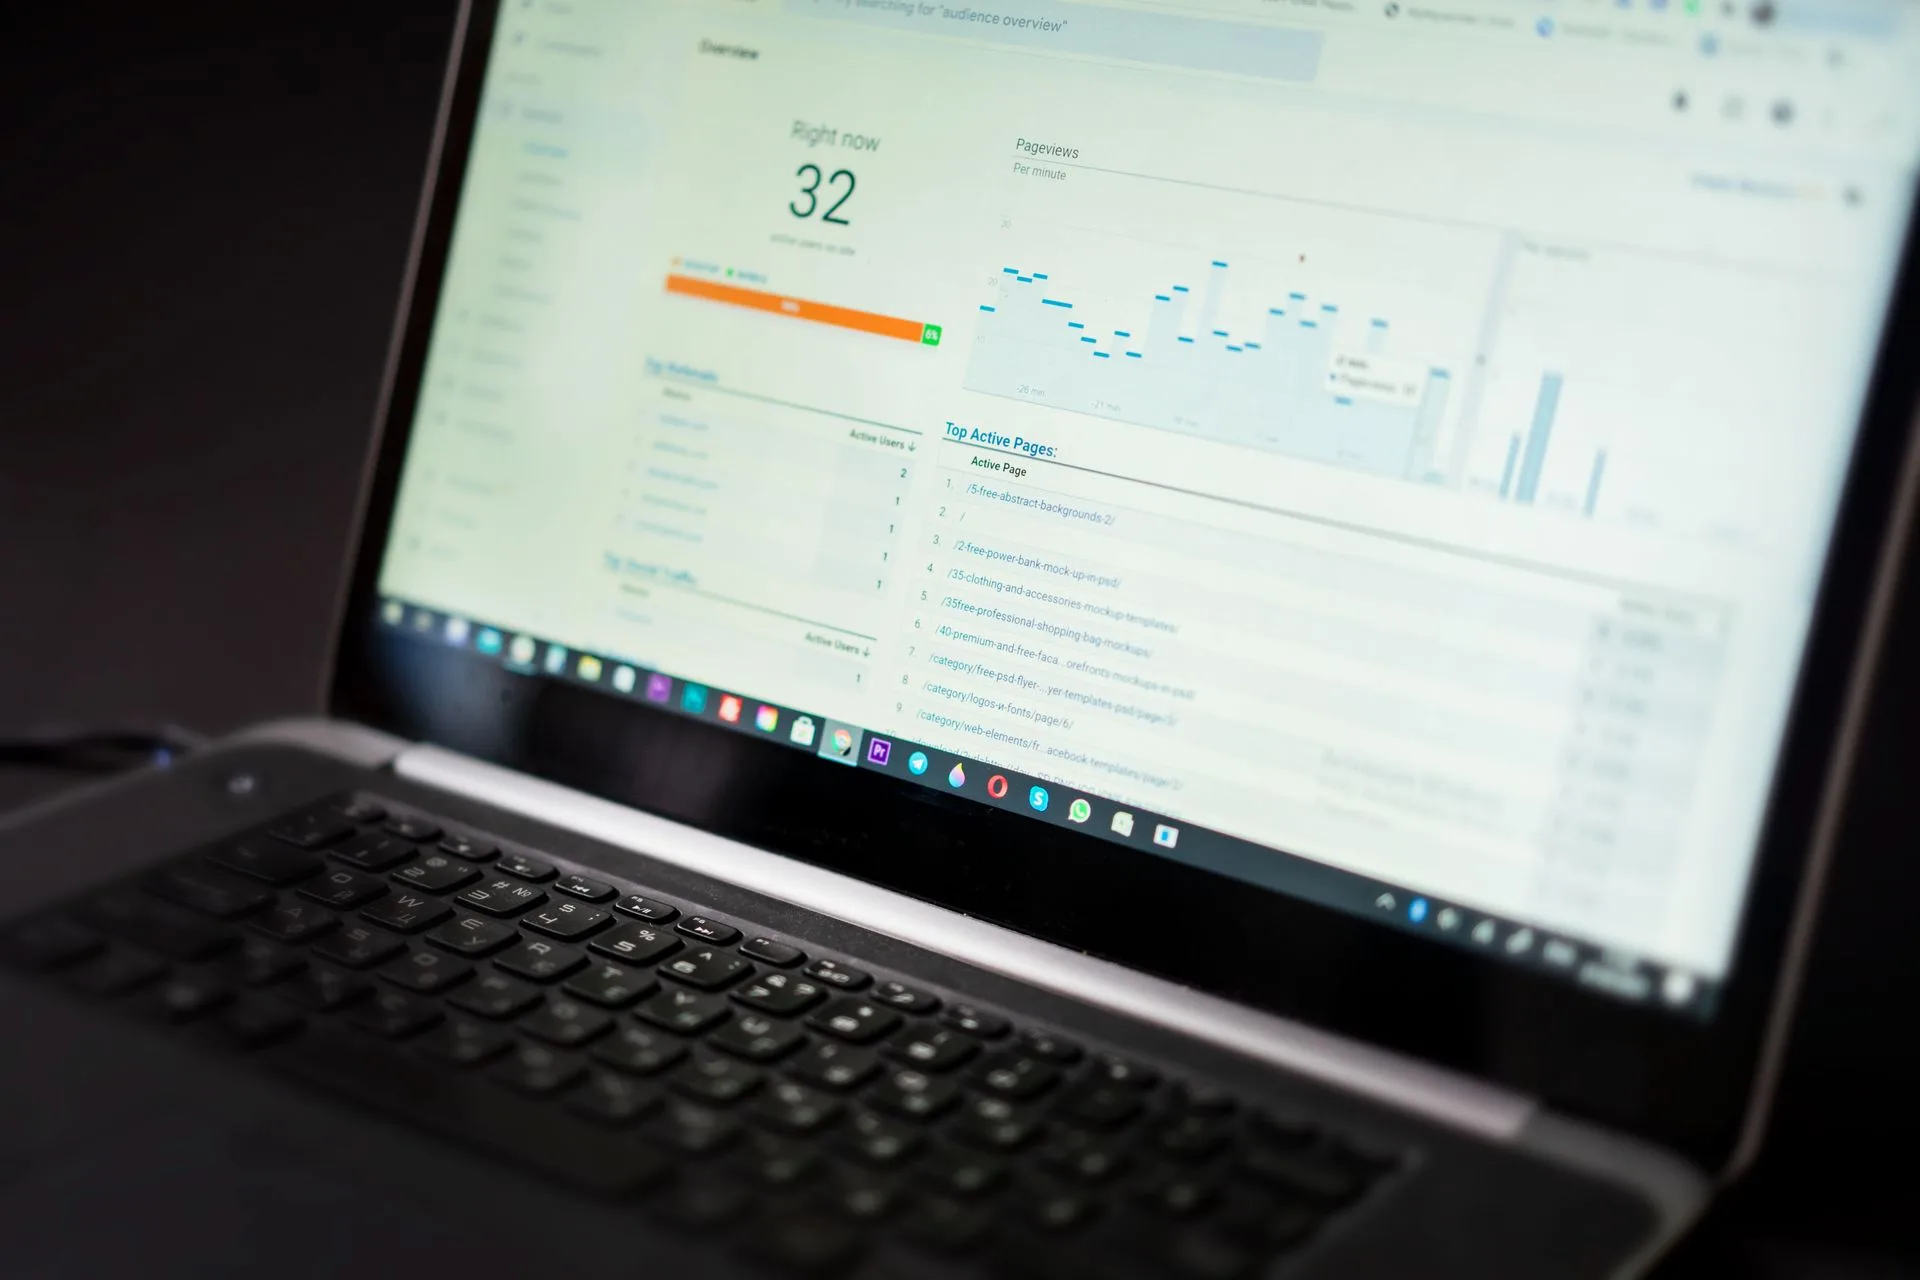
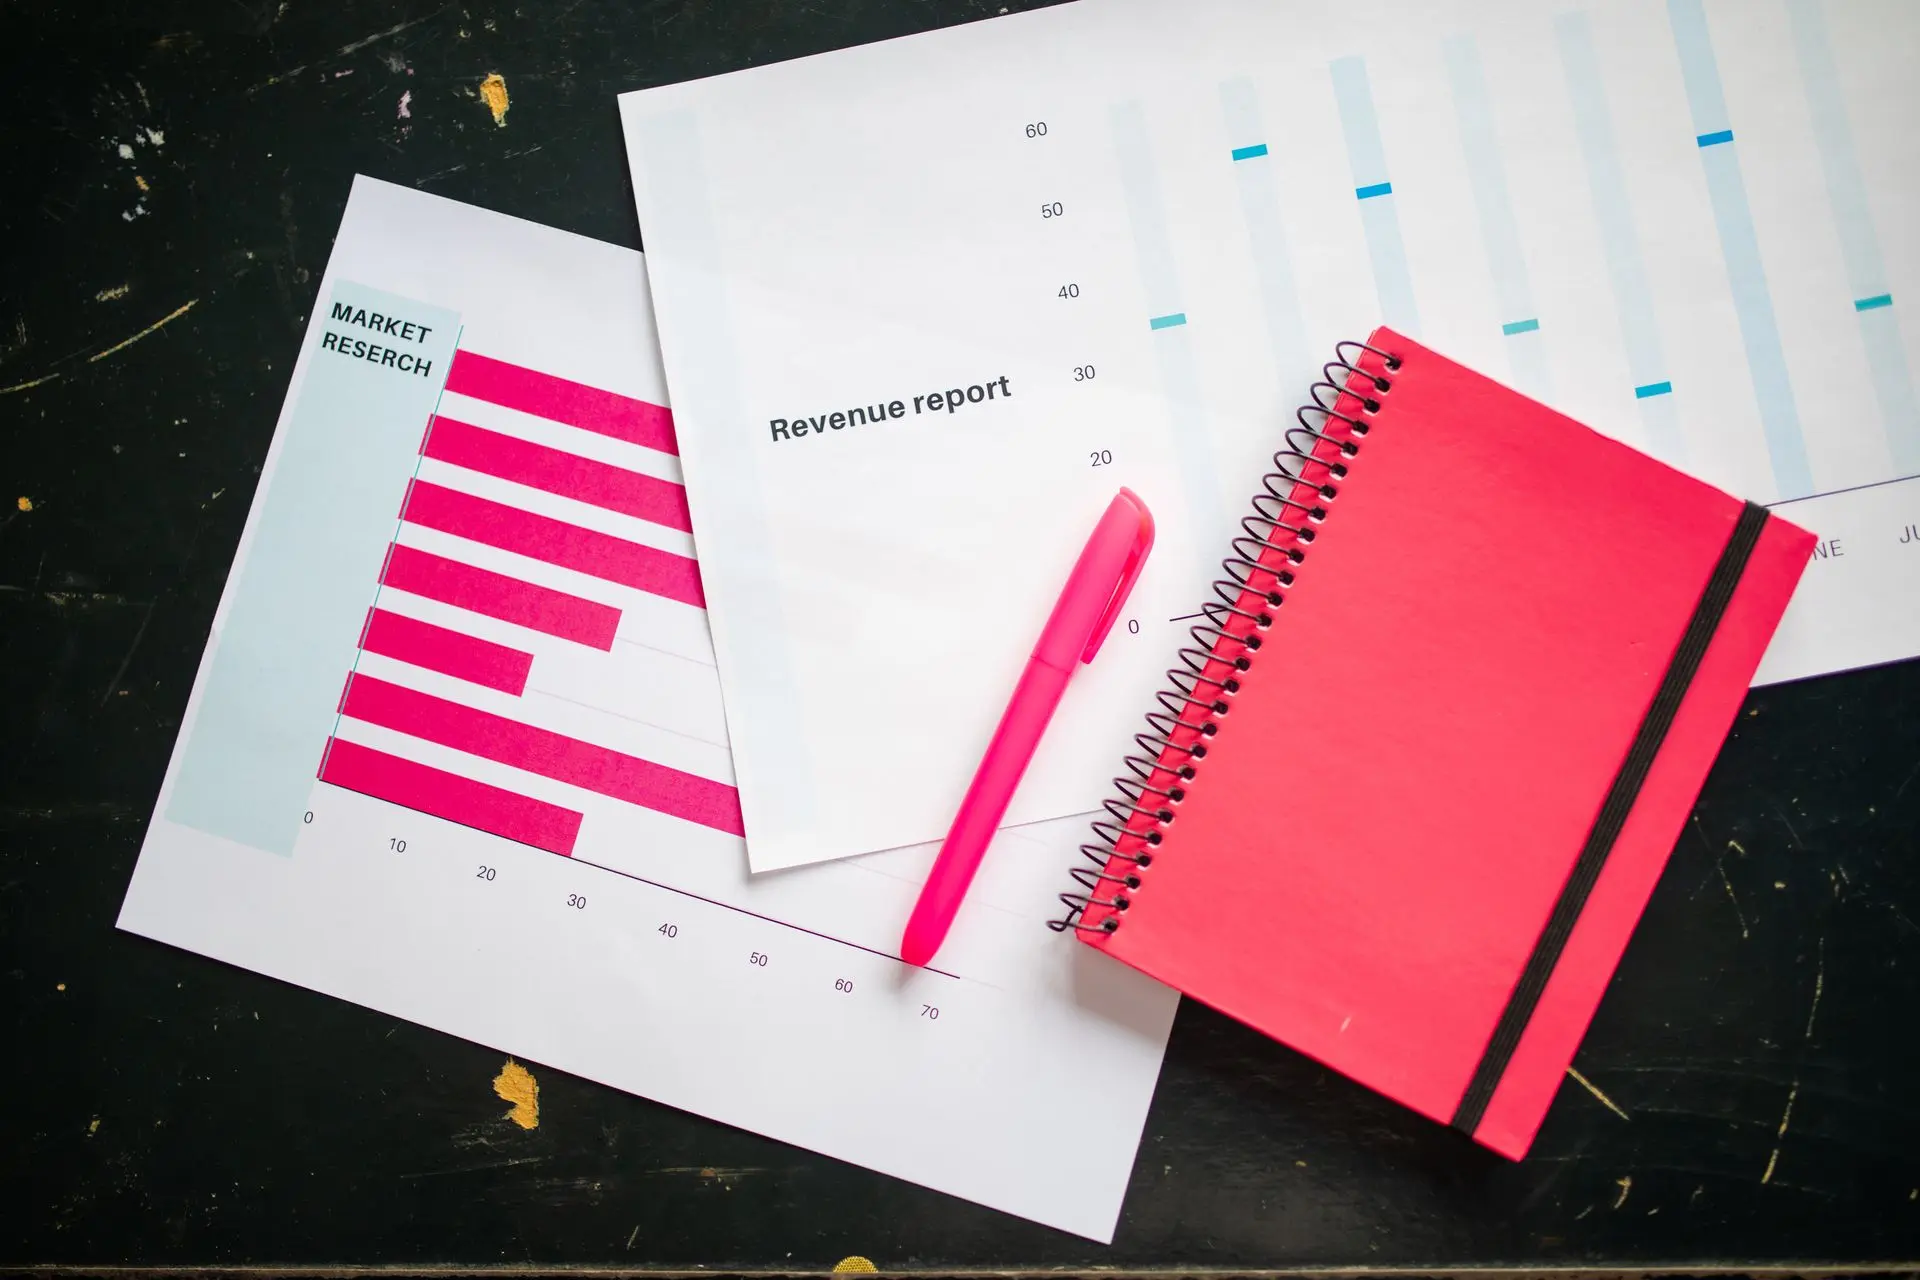
fix: replace demo photos that showed brand marks

diff --git a/src/content/packs/general/media.ts b/src/content/packs/general/media.ts
@@ -220,7 +220,7 @@ export const generalMedia: Record<GeneralMediaKey, MediaAsset> = {
   "portfolio-migrasi-erp-logistik-2": {
     id: "portfolio-migrasi-erp-logistik-2",
     url: "/demo/general/portfolio-migrasi-erp-logistik-2.webp",
-    alt: "Operator memantau banyak layar di ruang kendali operasional",
+    alt: "Petugas membelakangi kamera memantau deretan layar monitor di ruang kendali operasional",
     width: 1920,
     height: 1280,
   },
@@ -346,7 +346,7 @@ export const generalMedia: Record<GeneralMediaKey, MediaAsset> = {
   "article-menentukan-kpi-operasional-figure": {
     id: "article-menentukan-kpi-operasional-figure",
     url: "/demo/general/article-menentukan-kpi-operasional-figure.webp",
-    alt: "Ilustrasi: laptop menampilkan dasbor analitik dengan grafik pemantauan kinerja secara langsung",
+    alt: "Ilustrasi: lembar laporan bergrafik batang di atas meja bersama buku catatan merah dan stabilo merah muda",
     width: 1920,
     height: 1280,
   },

diff --git a/src/content/packs/general/articles/menentukan-kpi-operasional.ts b/src/content/packs/general/articles/menentukan-kpi-operasional.ts
@@ -78,7 +78,7 @@ Perhatikan juga keseimbangannya. Bila hanya kecepatan yang diukur, mutu bisa dik
 
 Untuk usaha jasa, contoh di atas bisa diganti dengan ketepatan jadwal kunjungan atau jumlah pekerjaan ulang. Prinsipnya sama: ukur hasil proses paling penting bagi pelanggan.
 
-![${figure.alt}](${figure.url} "Ilustrasi: dasbor sederhana untuk memantau indikator operasional")
+![${figure.alt}](${figure.url} "Ilustrasi: grafik tercetak untuk memantau indikator operasional")
 
 ## Bagaimana menjaga KPI tetap dipakai, bukan sekadar laporan?
 

diff --git a/docs/credits/general.md b/docs/credits/general.md
@@ -27,7 +27,7 @@ Foto paket demo ini diunduh dari Pexels dan dipakai di bawah Pexels License (gra
 | portfolio-pelatihan-layanan-pelanggan-ritel-2 | Vitaly Gariev (silverkblack) | https://www.pexels.com/photo/young-women-shopping-in-clothing-store-36730433/ | Pexels License |
 | portfolio-migrasi-erp-logistik | Tom Fisk | https://www.pexels.com/photo/high-angle-shot-of-colorful-trucks-2226457/ | Pexels License |
 | portfolio-migrasi-erp-logistik-1 | K (@kelly) | https://www.pexels.com/photo/parked-trucks-and-cargo-containers-on-port-13766346/ | Pexels License |
-| portfolio-migrasi-erp-logistik-2 | Sergey Sergeev | https://www.pexels.com/photo/engineer-at-control-room-monitoring-screens-32845700/ | Pexels License |
+| portfolio-migrasi-erp-logistik-2 | Samon Yu | https://www.pexels.com/photo/a-man-looking-at-multiple-monitors-11783119/ | Pexels License |
 | portfolio-audit-proses-keuangan-koperasi | Mikhail Nilov | https://www.pexels.com/photo/a-person-examining-a-document-8296977/ | Pexels License |
 | portfolio-audit-proses-keuangan-koperasi-1 | Pavel Danilyuk | https://www.pexels.com/photo/close-up-shot-of-a-person-holding-paper-money-7654426/ | Pexels License |
 | portfolio-audit-proses-keuangan-koperasi-2 | Mikhail Nilov | https://www.pexels.com/photo/a-woman-computing-with-a-calculator-8296974/ | Pexels License |
@@ -45,7 +45,7 @@ Foto paket demo ini diunduh dari Pexels dan dipakai di bawah Pexels License (gra
 | article-langkah-awal-transformasi-digital | Ivan S | https://www.pexels.com/photo/high-angle-shot-of-a-notebook-and-a-pen-beside-a-laptop-7213439/ | Pexels License |
 | article-langkah-awal-transformasi-digital-figure | Vasyl Vovk (page shows "Василь Вовк") | https://www.pexels.com/photo/laptop-with-graphic-illustration-on-screen-in-office-4405384/ | Pexels License |
 | article-menentukan-kpi-operasional | Yan Krukau | https://www.pexels.com/photo/using-laptop-in-a-business-meeting-7693683/ | Pexels License |
-| article-menentukan-kpi-operasional-figure | Atlantic Ambience | https://www.pexels.com/photo/close-up-shot-of-a-laptop-computer-12969403/ | Pexels License |
+| article-menentukan-kpi-operasional-figure | RDNE Stock project | https://www.pexels.com/photo/overhead-shot-of-a-pen-and-notebook-on-charts-7947837/ | Pexels License |
 | partner-1 | - | - | Dibuat untuk paket demo |
 | partner-2 | - | - | Dibuat untuk paket demo |
 | partner-3 | - | - | Dibuat untuk paket demo |
